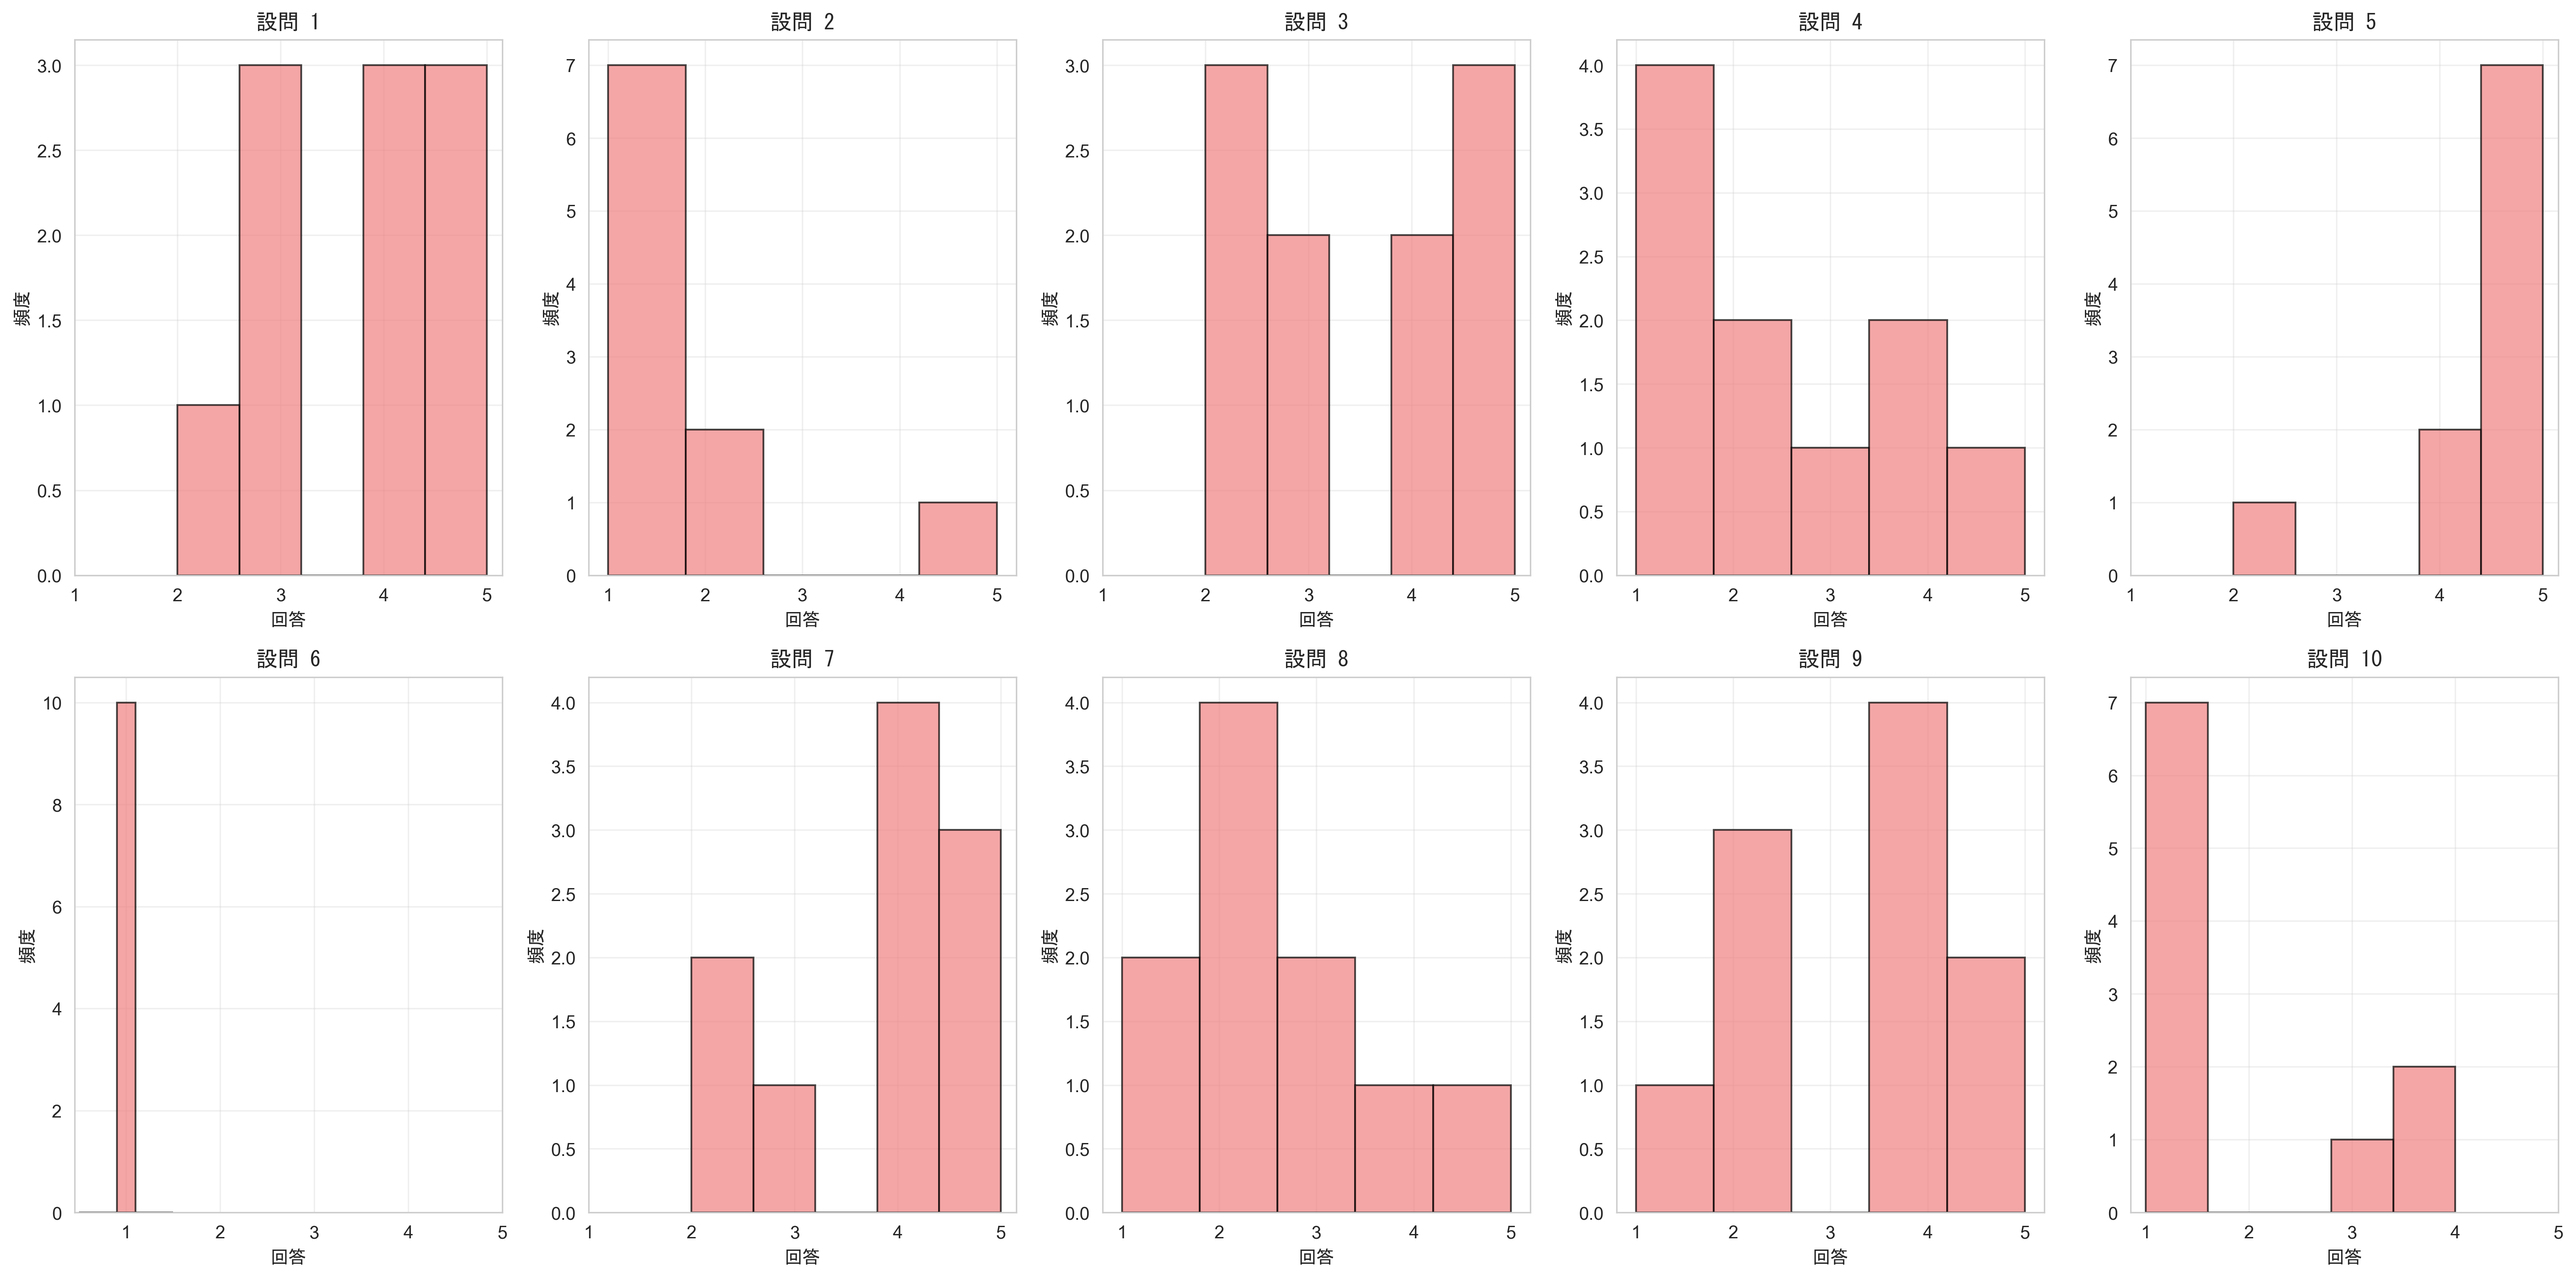
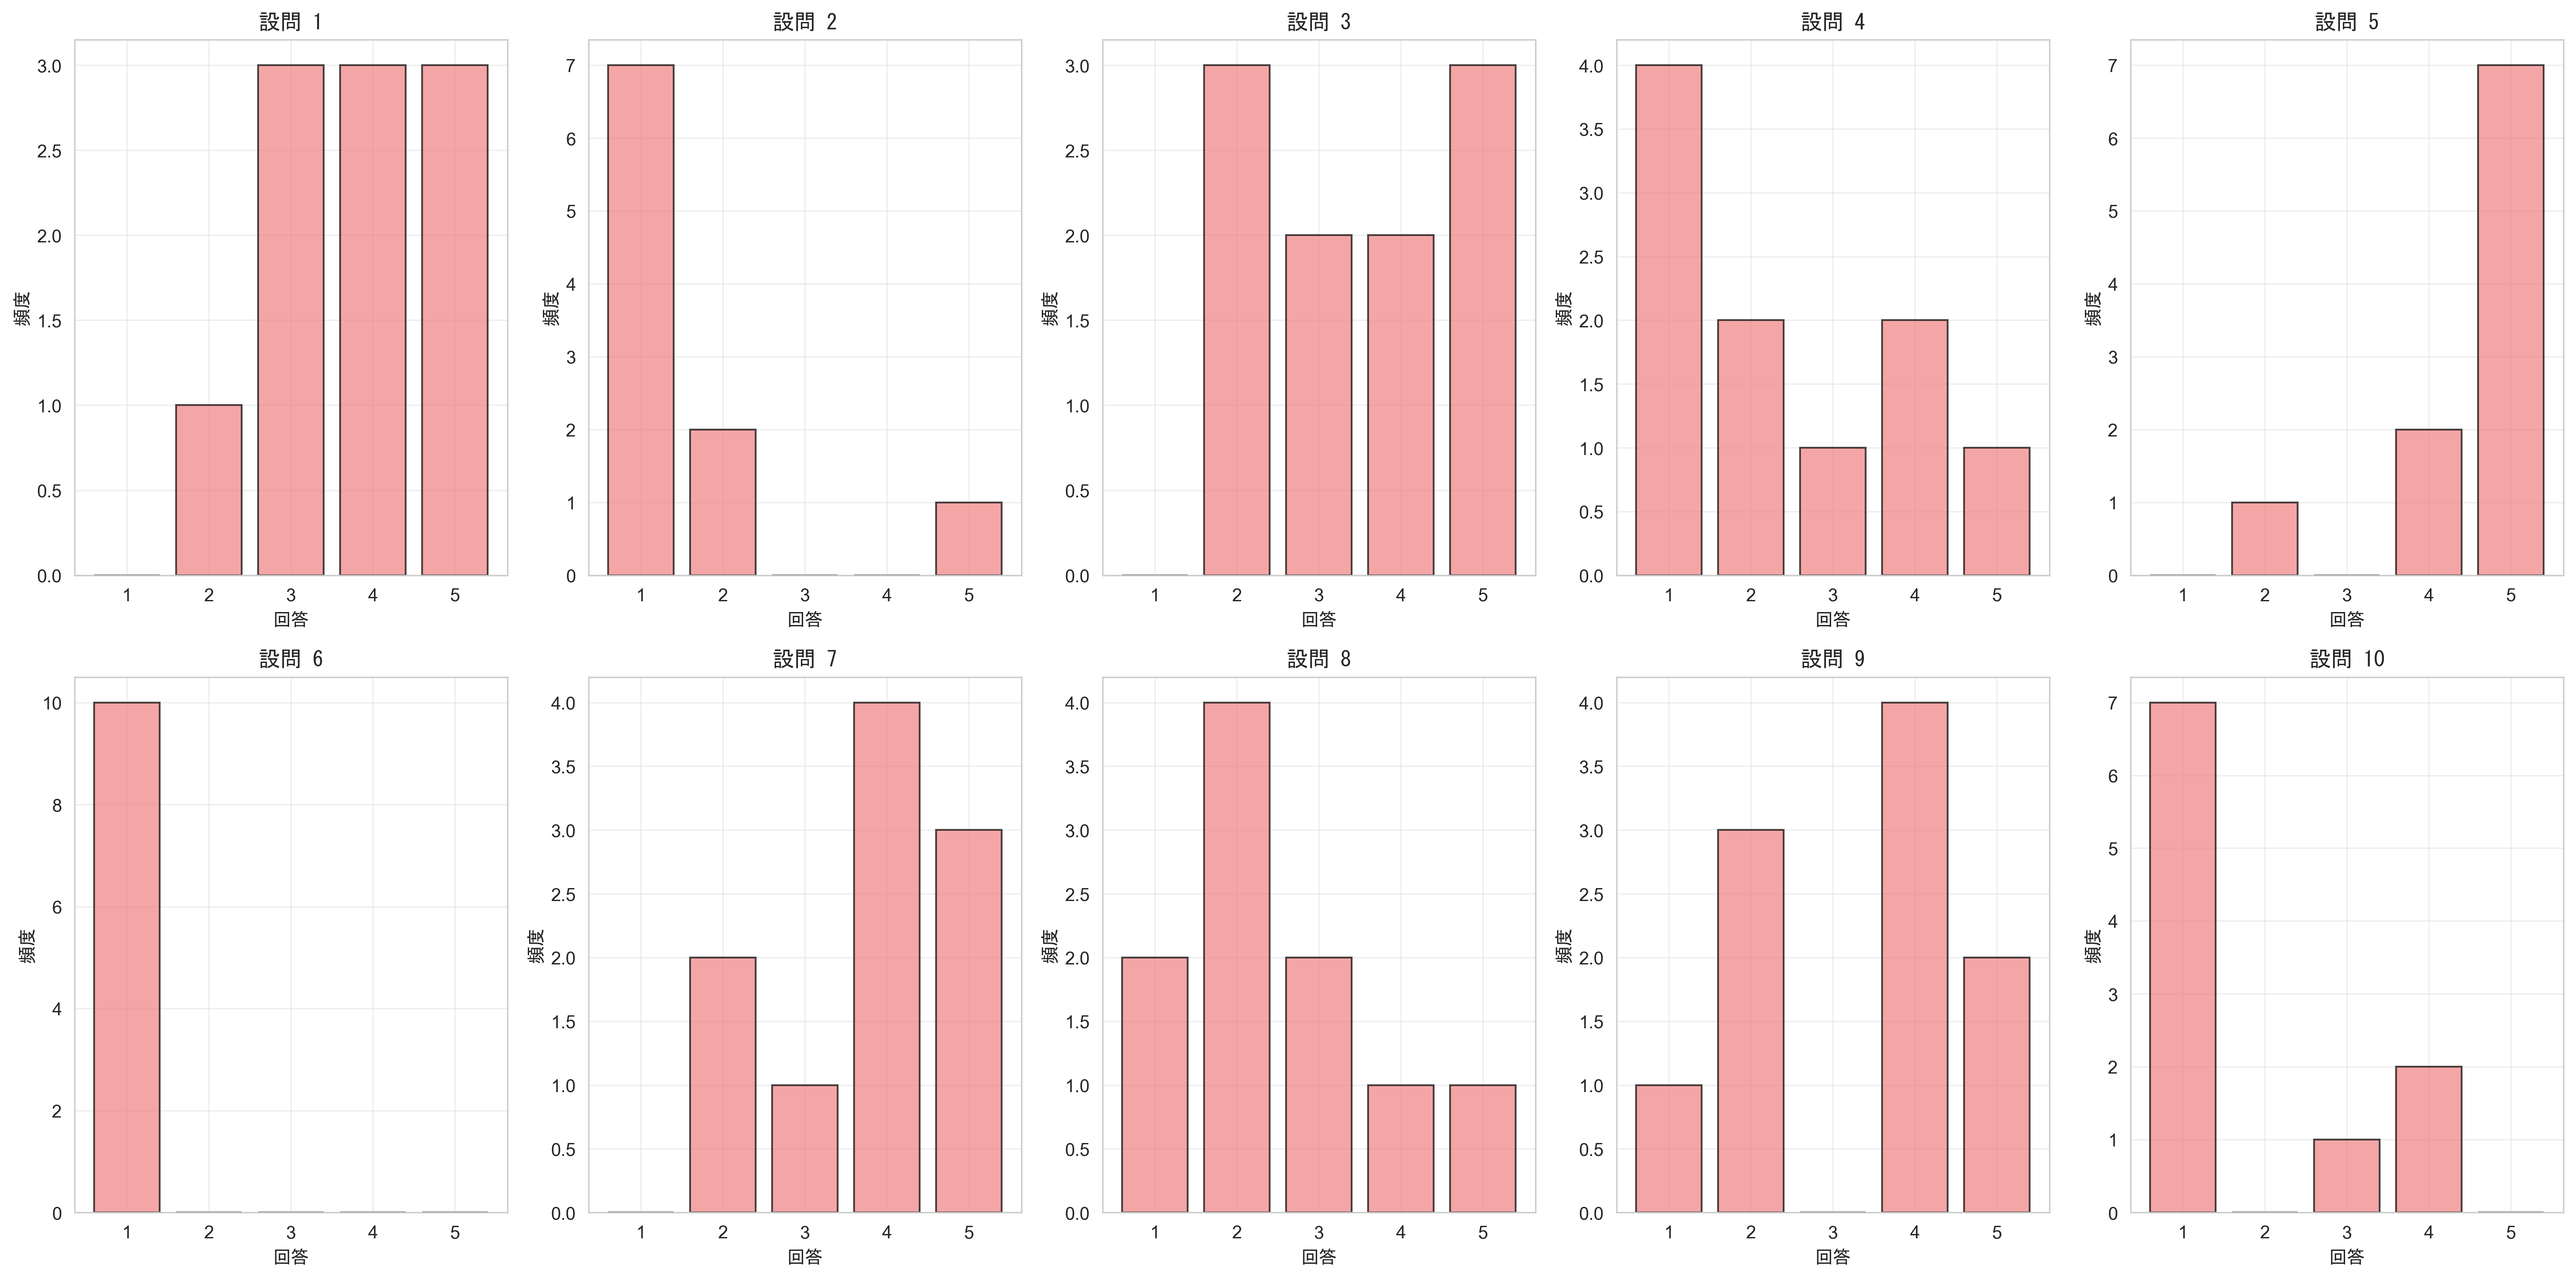
グラフを修正

diff --git a/experimental data/0627/src/sus_analysis.py b/experimental data/0627/src/sus_analysis.py
@@ -64,67 +64,31 @@ def create_visualizations(df):
     # 1. SUSスコアのヒストグラム
     plt.figure(figsize=(10, 6))
     plt.hist(df['SUSスコア'].astype(float), bins=8, alpha=0.7, color='skyblue', edgecolor='black')
-    plt.title("SUSスコアの分布", fontname=font_name, fontsize=14, fontweight='bold')
-    plt.xlabel("SUSスコア", fontname=font_name, fontsize=12)
-    plt.ylabel("頻度", fontname=font_name, fontsize=12)
+    #plt.title("SUSスコアの分布", fontname=font_name, fontsize=14, fontweight='bold')
+    plt.xlabel("SUSスコア[点]", fontname=font_name, fontsize=12)
+    plt.ylabel("頻度[人]", fontname=font_name, fontsize=12)
     plt.grid(True, alpha=0.3)
     plt.tight_layout()
     plt.savefig(f"{output_dir}/sus_score_histogram.png", dpi=300, bbox_inches='tight')
     plt.close()
     
-    # 2. SUSスコアのボックスプロット
-    plt.figure(figsize=(8, 6))
-    plt.boxplot(df['SUSスコア'].astype(float), patch_artist=True, 
-                boxprops=dict(facecolor='lightblue', alpha=0.7))
-    plt.title("SUSスコアのボックスプロット", fontname=font_name, fontsize=14, fontweight='bold')
-    plt.ylabel("SUSスコア", fontname=font_name, fontsize=12)
-    plt.grid(True, alpha=0.3)
-    plt.tight_layout()
-    plt.savefig(f"{output_dir}/sus_score_boxplot.png", dpi=300, bbox_inches='tight')
-    plt.close()
-    
-    # 3. 各設問の回答分布
+    # 2. 各設問の回答分布（棒グラフ）
     fig, axes = plt.subplots(2, 5, figsize=(20, 10))
     axes = axes.flatten()
-    
     for i in range(1, 11):
         col_name = f'設問{i}'
         if col_name in df.columns:
-            question_data = df[col_name].astype(float)
-            axes[i-1].hist(question_data, bins=5, alpha=0.7, color='lightcoral', edgecolor='black')
+            question_data = df[col_name].astype(int)
+            # 各選択肢ごとのカウント
+            counts = [sum(question_data == v) for v in range(1, 6)]
+            axes[i-1].bar(range(1, 6), counts, color='lightcoral', edgecolor='black', alpha=0.7)
             axes[i-1].set_title(f'設問 {i}', fontname=font_name, fontsize=12, fontweight='bold')
             axes[i-1].set_xlabel('回答', fontname=font_name, fontsize=10)
             axes[i-1].set_ylabel('頻度', fontname=font_name, fontsize=10)
-            axes[i-1].grid(True, alpha=0.3)
             axes[i-1].set_xticks(range(1, 6))
-    
+            axes[i-1].grid(True, alpha=0.3)
     plt.tight_layout()
     plt.savefig(f"{output_dir}/questions_distribution.png", dpi=300, bbox_inches='tight')
-    plt.close()
-    
-    # 4. 設問間の相関行列
-    question_cols = [f'設問{i}' for i in range(1, 11) if f'設問{i}' in df.columns]
-    if len(question_cols) > 1:
-        correlation_matrix = df[question_cols].astype(float).corr()
-        
-        plt.figure(figsize=(12, 10))
-        sns.heatmap(correlation_matrix, annot=True, cmap='coolwarm', center=0,
-                   square=True, linewidths=0.5, cbar_kws={"shrink": .8})
-        plt.title("設問間の相関行列", fontname=font_name, fontsize=14, fontweight='bold')
-        plt.tight_layout()
-        plt.savefig(f"{output_dir}/questions_correlation.png", dpi=300, bbox_inches='tight')
-        plt.close()
-    
-    # 5. 時系列プロット
-    plt.figure(figsize=(12, 6))
-    plt.plot(range(1, len(df)+1), df['SUSスコア'].astype(float), 
-             marker='o', linewidth=2, markersize=8, color='darkblue')
-    plt.title("SUSスコアの時系列", fontname=font_name, fontsize=14, fontweight='bold')
-    plt.xlabel("参加者の順序", fontname=font_name, fontsize=12)
-    plt.ylabel("SUSスコア", fontname=font_name, fontsize=12)
-    plt.grid(True, alpha=0.3)
-    plt.tight_layout()
-    plt.savefig(f"{output_dir}/sus_score_timeseries.png", dpi=300, bbox_inches='tight')
     plt.close()
     
     print(f"グラフを {output_dir} に保存しました")

diff --git a/experimental data/0627/question.md b/experimental data/0627/question.md
@@ -1,0 +1,82 @@
+# 個別質問
+1. 普段からスマートフォン等でフリック入力を使用していますか。
+   - はい
+   - いいえ
+
+2. 瞼を使った選択動作で、自身の意図に反して動作してしまうことはどれくらいありましたか？
+   - 1回
+   - 2回
+   - 3回
+   - 4回
+   - 5回以上
+
+# システム全体の使いやすさ (SUS)
+1. この入力方法は、今後も使いたいと思える。
+   - 1:全くそう思わない
+   - 2
+   - 3
+   - 4
+   - 5:強くそう思う
+
+2. この入力方法は、不必要に複雑だと感じた。
+   - 1:全くそう思わない
+   - 2
+   - 3
+   - 4
+   - 5:強くそう思う
+
+3. この入力方法は、とても使いやすいと思った。
+   - 1:全くそう思わない
+   - 2
+   - 3
+   - 4
+   - 5:強くそう思う
+
+4. この入力方法を使いこなすには、専門家の助けが必要だと感じた。
+   - 1:全くそう思わない
+   - 2
+   - 3
+   - 4
+   - 5:強くそう思う
+
+5. この入力方法の機能（子音選択、母音選択など）は、うまく統合されていると感じた。
+   - 1:全くそう思わない
+   - 2
+   - 3
+   - 4
+   - 5:強くそう思う
+
+6. この入力方法の操作には、一貫性のない部分が多すぎると感じた。
+   - 1:全くそう思わない
+   - 2
+   - 3
+   - 4
+   - 5:強くそう思う
+
+7. ほとんどの人は、この入力方法をすぐに習得できると思う。
+   - 1:全くそう思わない
+   - 2
+   - 3
+   - 4
+   - 5:強くそう思う
+
+8. この入力方法を使うのは、とても面倒だと感じた。
+   - 1:全くそう思わない
+   - 2
+   - 3
+   - 4
+   - 5:強くそう思う
+
+9. この入力方法を、自信を持って使うことができた。
+   - 1:全くそう思わない
+   - 2
+   - 3
+   - 4
+   - 5:強くそう思う
+
+10. この入力方法を使い始める前に、多くのことを覚える必要があった。
+    - 1:全くそう思わない
+    - 2
+    - 3
+    - 4
+    - 5:強くそう思う
